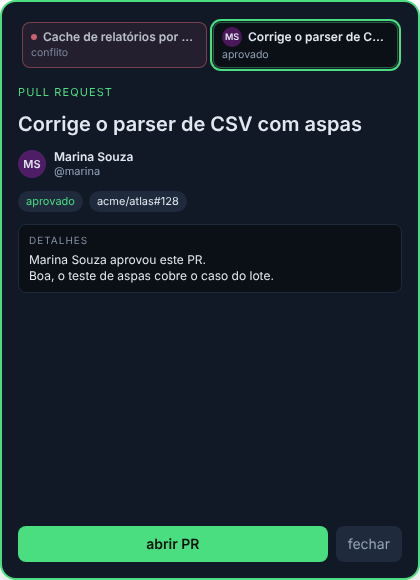
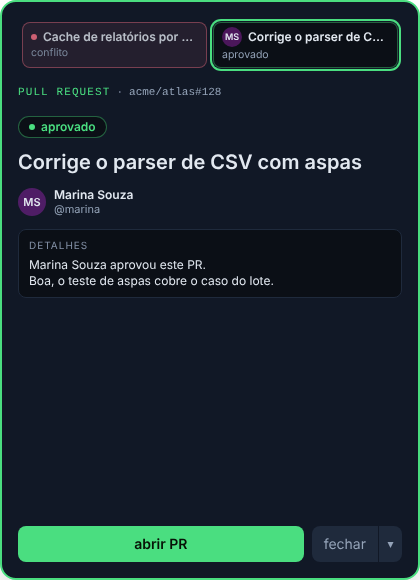
feat: aviso de PR com motivo, repositório e autor à primeira vista
The PR/mention pop-up repeated "atribuído a você" in a chip and again in the
details box, kept the repository in a loose chip and left an empty box below.
Kind, repository and age now share one line, the reason is a tone-coloured
pill, an assignment carries who opened it as the sender, and the details box
only renders when it has something to say. "fechar" drops its fill so it no
longer competes with the primary action.

Claude-Session: https://claude.ai/code/session_014W98WGUSLD1jCfcDfxnCvg

diff --git a/src/components/AlertDetail.tsx b/src/components/AlertDetail.tsx
@@ -24,6 +24,16 @@ function Chip({ children, tone }: { children: ReactNode; tone?: string }) {
   return <span className={`rounded-full bg-edge px-2 py-0.5 text-[11px] ${tone ?? "text-fg"}`}>{children}</span>;
 }
 
+/** Why the alert rang, in its tone, ahead of everything else it says. */
+function Reason({ tone, children }: { tone: (typeof TONE)[keyof typeof TONE]; children: ReactNode }) {
+  return (
+    <span data-reason className={`inline-flex items-center gap-1.5 rounded-full border px-2.5 py-0.5 text-xs font-semibold ${tone.card} ${tone.text}`}>
+      <span aria-hidden="true" className={`size-1.5 rounded-full ${tone.dot}`} />
+      {children}
+    </span>
+  );
+}
+
 /** What a mention or a service writes: rendered as markdown (bold, lists, code) with its links openable. */
 function Description({ text }: { text: string }) {
   const render: Render = {
@@ -48,55 +58,67 @@ export default function AlertDetail({ event, onOpenNotes }: { event: AgendaItem;
   const attendees = event.attendees ?? [];
   const guests = tally(attendees);
   const soon = agendaStatus(event).label;
+  const forge = kind === "pr" || kind === "mention";
+  // A box that would only hold its label is noise; meetings always keep theirs for the prep notes.
+  const detailed = kind === "meeting" || !!event.description || !!event.location || (event.attachments ?? []).length > 0;
 
   return (
     <>
-      <p className={`text-[11px] uppercase tracking-widest ${tone.text}`}>{t(`alert.kind.${kind}`)}</p>
+      {forge ? (
+        <>
+          <p data-eyebrow className="flex min-w-0 items-center gap-1.5 font-mono text-[11px] text-muted">
+            <span className={`shrink-0 uppercase tracking-widest ${tone.text}`}>{t(`alert.kind.${kind}`)}</span>
+            {[event.organizer, event.start && timeAgo(event.start)].filter(Boolean).map((part) => (
+              <span key={part} className="truncate before:mr-1.5 before:text-faint before:content-['·']">
+                {part}
+              </span>
+            ))}
+          </p>
+          <div>
+            <Reason tone={tone}>
+              {kind === "pr" ? prLabel(event.tag) : event.tag === "gitlab" ? "GitLab" : "GitHub"}
+            </Reason>
+          </div>
+        </>
+      ) : (
+        <p className={`text-[11px] uppercase tracking-widest ${tone.text}`}>{t(`alert.kind.${kind}`)}</p>
+      )}
       <h1 className="line-clamp-2 text-xl font-semibold leading-tight">{event.title}</h1>
-      {(kind === "mention" || kind === "pr") && event.sender && <SenderLine sender={event.sender} />}
-      <div className="flex flex-wrap gap-1.5">
-        {kind === "status" && (
-          <>
-            <Chip tone={tone.text}>{levelLabel(event.tag)}</Chip>
-            {event.start && <Chip>{t("alert.since", { time: hour(event) })}</Chip>}
-            {event.start && <Chip>{timeAgo(event.start)}</Chip>}
-          </>
-        )}
-        {kind === "model" && (
-          <>
-            {event.tag && <Chip tone={tone.text}>{event.tag}</Chip>}
-            {event.organizer && <Chip>{event.organizer}</Chip>}
-          </>
-        )}
-        {kind === "pr" && (
-          <>
-            <Chip tone={tone.text}>{prLabel(event.tag)}</Chip>
-            {event.organizer && <Chip>{event.organizer}</Chip>}
-            {event.tag === "stalled" && event.start && <Chip>{timeAgo(event.start)}</Chip>}
-          </>
-        )}
-        {kind === "mention" && (
-          <>
-            <Chip tone={tone.text}>{event.tag === "gitlab" ? "GitLab" : "GitHub"}</Chip>
-            {event.organizer && <Chip>{event.organizer}</Chip>}
-          </>
-        )}
-        {(kind === "meeting" || kind === "task") && (
-          <>
-            <Chip tone={tone.text}>{hour(event)}</Chip>
-            {kind === "meeting" && soon && <Chip>{soon}</Chip>}
-            {event.meet && <Chip>Meet</Chip>}
-          </>
-        )}
-      </div>
+      {forge && event.sender && <SenderLine sender={event.sender} />}
+      {!forge && (
+        <div className="flex flex-wrap gap-1.5">
+          {kind === "status" && (
+            <>
+              <Chip tone={tone.text}>{levelLabel(event.tag)}</Chip>
+              {event.start && <Chip>{t("alert.since", { time: hour(event) })}</Chip>}
+              {event.start && <Chip>{timeAgo(event.start)}</Chip>}
+            </>
+          )}
+          {kind === "model" && (
+            <>
+              {event.tag && <Chip tone={tone.text}>{event.tag}</Chip>}
+              {event.organizer && <Chip>{event.organizer}</Chip>}
+            </>
+          )}
+          {(kind === "meeting" || kind === "task") && (
+            <>
+              <Chip tone={tone.text}>{hour(event)}</Chip>
+              {kind === "meeting" && soon && <Chip>{soon}</Chip>}
+              {event.meet && <Chip>Meet</Chip>}
+            </>
+          )}
+        </div>
+      )}
       <div className={`grid min-h-0 flex-1 content-start gap-2.5 ${kind === "meeting" ? "grid-cols-[1.25fr_1fr] grid-rows-[minmax(0,1fr)]" : "grid-cols-1 grid-rows-[minmax(0,auto)]"}`}>
-        <Box label={kind === "status" ? t("alert.nowSituation") : t("alert.details")}>
-          {event.description && <Description text={event.description} />}
-          {event.location && <p className="mt-1 break-words text-xs text-muted">{event.location}</p>}
-          {kind === "meeting" && people(event) && <p className="mt-1 text-xs text-muted">{people(event)}</p>}
-          {kind === "meeting" && <AlertPrep event={event} onOpenNotes={onOpenNotes} />}
-          {kind === "pr" && <AlertJobs jobs={event.attachments ?? []} />}
-        </Box>
+        {detailed && (
+          <Box label={kind === "status" ? t("alert.nowSituation") : t("alert.details")}>
+            {event.description && <Description text={event.description} />}
+            {event.location && <p className="mt-1 break-words text-xs text-muted">{event.location}</p>}
+            {kind === "meeting" && people(event) && <p className="mt-1 text-xs text-muted">{people(event)}</p>}
+            {kind === "meeting" && <AlertPrep event={event} onOpenNotes={onOpenNotes} />}
+            {kind === "pr" && <AlertJobs jobs={event.attachments ?? []} />}
+          </Box>
+        )}
         {kind === "meeting" && (
           <Box label={t("alert.guests")}>
             {attendees.length > 0 && (

diff --git a/e2e/alert.e2e.ts b/e2e/alert.e2e.ts
@@ -194,6 +194,32 @@ test("an approved PR names who approved it, with their photo, and a conflict ran
   if (process.env.SHOT) await page.screenshot({ path: process.env.SHOT });
 });
 
+test("an assigned PR says why, where and when in one line, and who opened it", async ({ page }) => {
+  const assigned = {
+    id: "pr:assigned:acme/detect-wifi#252",
+    title: "build(deps): bump firebase-bom from 35.0.0 to 35.0.2",
+    start: new Date(Date.now() - 3 * 60_000).toISOString(),
+    end: "",
+    all_day: false,
+    location: "",
+    meet: "",
+    link: "https://github.com/acme/detect-wifi/pull/252",
+    organizer: "acme/detect-wifi#252",
+    description: "",
+    tag: "assigned",
+    sender: { name: "", login: "dependabot[bot]", avatar: "" },
+  };
+  await mockTauri(page, { fixed: { alert_payload: [assigned] } });
+  await ring(page);
+
+  const alert = page.getByRole("alertdialog");
+  await expect(alert.locator("[data-eyebrow]")).toContainText("acme/detect-wifi#252");
+  await expect(alert.locator("[data-reason]")).toHaveText("atribuído a você");
+  await expect(alert.locator("[data-sender]")).toContainText("dependabot[bot]");
+  await expect(alert.getByText("detalhes")).toHaveCount(0);
+  if (process.env.SHOT) await page.screenshot({ path: process.env.SHOT });
+});
+
 test("the morning summary lists what is waiting and only offers to close", async ({ page }) => {
   const digest = {
     id: "digest:morning:2026-10-12",

diff --git a/src/components/AlertKinds.test.tsx b/src/components/AlertKinds.test.tsx
@@ -291,6 +291,25 @@ test("a sender without a photo falls back to initials and one without a name sho
   expect(document.querySelector("[data-sender]")!.textContent).toContain("ana");
 });
 
+test("an assignment says why it rang, where and when in one line, and who opened it, with no empty box", async () => {
+  await show([
+    {
+      ...failingCi,
+      id: "pr:assigned:acme/atlas#12",
+      start: new Date(Date.now() - 3 * 60_000).toISOString(),
+      description: "",
+      tag: "assigned",
+      sender: { name: "", login: "dependabot[bot]", avatar: "" },
+    },
+  ]);
+  const eyebrow = document.querySelector("[data-eyebrow]") as HTMLElement;
+  expect(eyebrow.textContent).toContain("acme/atlas#12");
+  expect(eyebrow.textContent).toContain("há 3 min");
+  expect(document.querySelector("[data-reason]")!.textContent).toBe("atribuído a você");
+  expect(document.querySelector("[data-sender]")!.textContent).toContain("dependabot[bot]");
+  expect(screen.queryByText("detalhes")).toBeNull();
+});
+
 const approved: AgendaItem = {
   ...failingCi,
   id: "pr:approved:acme/atlas#12",

diff --git a/src/components/AlertActions.tsx b/src/components/AlertActions.tsx
@@ -110,7 +110,7 @@ const AlertActions = forwardRef<HTMLButtonElement, Props>(function AlertActions(
       )}
       {(kind === "meeting" || kind === "task") && <SnoozeButton onSnooze={snooze} />}
       {onCloseAll ? <CloseWithAll onClose={() => onDismiss()} onCloseAll={onCloseAll} open={menu} setOpen={setMenu} /> : (
-        <button type="button" onClick={() => onDismiss()} title="Esc" className="rounded-lg bg-edge px-3 py-2 text-sm text-muted">
+        <button type="button" onClick={() => onDismiss()} title="Esc" className="rounded-lg px-3 py-2 text-sm text-muted hover:bg-edge hover:text-fg">
           {t("alert.close")}
         </button>
       )}

diff --git a/src-tauri/src/work_events.rs b/src-tauri/src/work_events.rs
@@ -2,7 +2,7 @@
 //! in, and a GitLab pipeline that broke on their merge request.
 use std::collections::HashMap;
 
-use crate::calendar::AgendaItem;
+use crate::calendar::{AgendaItem, Sender};
 use crate::forge::{ForgeItem, ForgeList};
 use crate::gitlab_todos::Mention;
 use crate::notification::PR_PREFIX;
@@ -14,14 +14,6 @@ pub fn others_only(mut list: ForgeList, login: &str) -> ForgeList {
     list.items.retain(|i| !i.author.eq_ignore_ascii_case(login));
     list.total = list.total.saturating_sub((before - list.items.len()) as u64);
     list
-}
-
-fn noun(item: &ForgeItem) -> &'static str {
-    match (item.is_pr, item.reference.contains('!')) {
-        (false, _) => "issue",
-        (true, true) => "MR",
-        (true, false) => "PR",
-    }
 }
 
 fn summary(tag: &str, title: String, lines: Vec<String>) -> AgendaItem {
@@ -58,21 +50,12 @@ pub fn assigned_events(fresh: &[&ForgeItem], en: bool) -> Vec<AgendaItem> {
             fresh.iter().map(|i| format!("{} {}", i.reference, i.title)).collect(),
         )];
     }
+    // The pill already says why it rang; who opened it rides as the sender, so the box below stays empty.
     fresh
         .iter()
         .map(|i| {
-            let (n, by) = (noun(i), if i.author.is_empty() { String::new() } else { format!(" @{}", i.author) });
-            let description = match en {
-                true => format!(
-                    "This {n} was assigned to you; opened by{}.",
-                    if by.is_empty() { " someone".into() } else { by }
-                ),
-                false => format!(
-                    "Este {n} foi atribuído a você; aberto por{}.",
-                    if by.is_empty() { " alguém".into() } else { by }
-                ),
-            };
-            AgendaItem { description, ..base(i, "assigned") }
+            let sender = (!i.author.is_empty()).then(|| Sender { login: i.author.clone(), ..Default::default() });
+            AgendaItem { sender, start: i.created_at.clone(), ..base(i, "assigned") }
         })
         .collect()
 }

diff --git a/src-tauri/src/work_events_tests.rs b/src-tauri/src/work_events_tests.rs
@@ -18,15 +18,14 @@ fn what_i_assigned_to_myself_is_no_news() {
 }
 
 #[test]
-fn an_assignment_names_the_kind_and_who_opened_it_and_a_burst_is_one_summary() {
-    let (pr, issue) = (thread(7, "ana", true), thread(8, "", false));
+fn an_assignment_names_who_opened_it_and_when_and_a_burst_is_one_summary() {
+    let (pr, issue) =
+        (ForgeItem { created_at: "2026-10-12T09:00:00Z".into(), ..thread(7, "ana", true) }, thread(8, "", false));
     let out = assigned_events(&[&pr, &issue], false);
     assert_eq!((out[0].id.as_str(), out[0].tag.as_str()), ("pr:assigned:o/r#7", "assigned"));
-    assert_eq!(out[0].description, "Este PR foi atribuído a você; aberto por @ana.");
-    assert_eq!(out[1].description, "Este issue foi atribuído a você; aberto por alguém.");
-    assert_eq!(assigned_events(&[&pr], true)[0].description, "This PR was assigned to you; opened by @ana.");
-    let mr = ForgeItem { reference: "g/p!3".into(), ..thread(3, "bia", true) };
-    assert!(assigned_events(&[&mr], false)[0].description.starts_with("Este MR"));
+    assert_eq!(out[0].sender.as_ref().map(|s| s.login.as_str()), Some("ana"));
+    assert_eq!(out[0].start, "2026-10-12T09:00:00Z");
+    assert_eq!((out[0].description.as_str(), out[1].sender.as_ref()), ("", None));
 
     let many: Vec<ForgeItem> = (1..=4).map(|n| thread(n, "ana", true)).collect();
     let refs: Vec<&ForgeItem> = many.iter().collect();

diff --git a/README.md b/README.md
@@ -356,7 +356,11 @@ And **Follow system**, which switches between light and dark along with the OS. 
 
 | More alerts about my own work |
 |---|
-| ![Pop-up for an approved pull request showing the reviewer's name and what they wrote; the strip also lists a conflict, which ranks first](docs/prints/app/82-aviso-pr-aprovado.png) |
+| ![Pop-up for an approved pull request: kind, repository and number in one line, the reviewer's name and what they wrote, and an "aprovado" pill; the strip also lists a conflict, which ranks first](docs/prints/app/82-aviso-pr-aprovado.png) |
+
+| PR assigned to me |
+|---|
+| ![Pop-up for a PR assigned to me: kind, repository, number and "há 3 min" in one line, who opened it with initials, an "atribuído a você" pill and no empty details box](docs/prints/app/95-aviso-pr-atribuido.png) |
 
 | Day summary alert | Day summary setting |
 |---|---|

diff --git a/CHANGELOG.md b/CHANGELOG.md
@@ -17,6 +17,11 @@ versões em [SemVer](https://semver.org/lang/pt-BR/).
 
 ### Adicionado
 
+- **Aviso de PR mais direto**: o pop-up de pull request e de menção diz o tipo, o repositório e há quanto tempo numa
+  linha só, traz o motivo (atribuído, CI falhou, aprovado...) num selo colorido e mostra quem abriu o PR com avatar.
+  O bloco "detalhes" só aparece quando tem algo a dizer, e "fechar" ficou mais discreto para não competir com
+  "abrir PR".
+
 - **Clima com céu animado e mais detalhes**: o cartão de cima agora é um céu que acompanha o tempo — azul limpo,
   noite estrelada, chuva, neve, neblina, trovoada com relâmpago —, com gotas e flocos caindo, nuvens passando e um
   ícone desenhado e animado para cada condição (tudo parado quando o sistema pede menos movimento). Abaixo: **umidade,

diff --git a/README.ta.md b/README.ta.md
@@ -299,6 +299,10 @@ OneDrive, Syncthing...), கணினி மற்றும் **புதுப
 |---|
 | ![Pop-up for an approved pull request showing the reviewer's name and what they wrote; the strip also lists a conflict, which ranks first](docs/prints/app/82-aviso-pr-aprovado.png) |
 
+| PR assigned to me |
+|---|
+| ![PR assigned to me](docs/prints/app/95-aviso-pr-atribuido.png) |
+
 | நாள் சுருக்க எச்சரிக்கை | நாள் சுருக்க அமைப்பு |
 |---|---|
 | ![Day summary pop-up listing the meetings, open tasks, review requests and unread mentions waiting](docs/prints/app/83-aviso-resumo-do-dia.png) | ![Settings: day summary switch, the hour it starts at and a working-days switch](docs/prints/app/84-ajustes-resumo-do-dia.png) |

diff --git a/README.bn.md b/README.bn.md
@@ -299,6 +299,10 @@ OneDrive, Syncthing...), সিস্টেম এবং **আপডেট** ব
 |---|
 | ![Pop-up for an approved pull request showing the reviewer's name and what they wrote; the strip also lists a conflict, which ranks first](docs/prints/app/82-aviso-pr-aprovado.png) |
 
+| PR assigned to me |
+|---|
+| ![PR assigned to me](docs/prints/app/95-aviso-pr-atribuido.png) |
+
 | দিনের সারাংশ সতর্কতা | দিনের সারাংশ সেটিং |
 |---|---|
 | ![Day summary pop-up listing the meetings, open tasks, review requests and unread mentions waiting](docs/prints/app/83-aviso-resumo-do-dia.png) | ![Settings: day summary switch, the hour it starts at and a working-days switch](docs/prints/app/84-ajustes-resumo-do-dia.png) |

diff --git a/README.uk.md b/README.uk.md
@@ -299,6 +299,10 @@ OneDrive, Syncthing...), почніть із системи та розділу 
 |---|
 | ![Pop-up for an approved pull request showing the reviewer's name and what they wrote; the strip also lists a conflict, which ranks first](docs/prints/app/82-aviso-pr-aprovado.png) |
 
+| PR assigned to me |
+|---|
+| ![PR assigned to me](docs/prints/app/95-aviso-pr-atribuido.png) |
+
 | Денний підсумковий сповіщення | Налаштування підсумків дня |
 |---|---|
 | ![Day summary pop-up listing the meetings, open tasks, review requests and unread mentions waiting](docs/prints/app/83-aviso-resumo-do-dia.png) | ![Settings: day summary switch, the hour it starts at and a working-days switch](docs/prints/app/84-ajustes-resumo-do-dia.png) |
